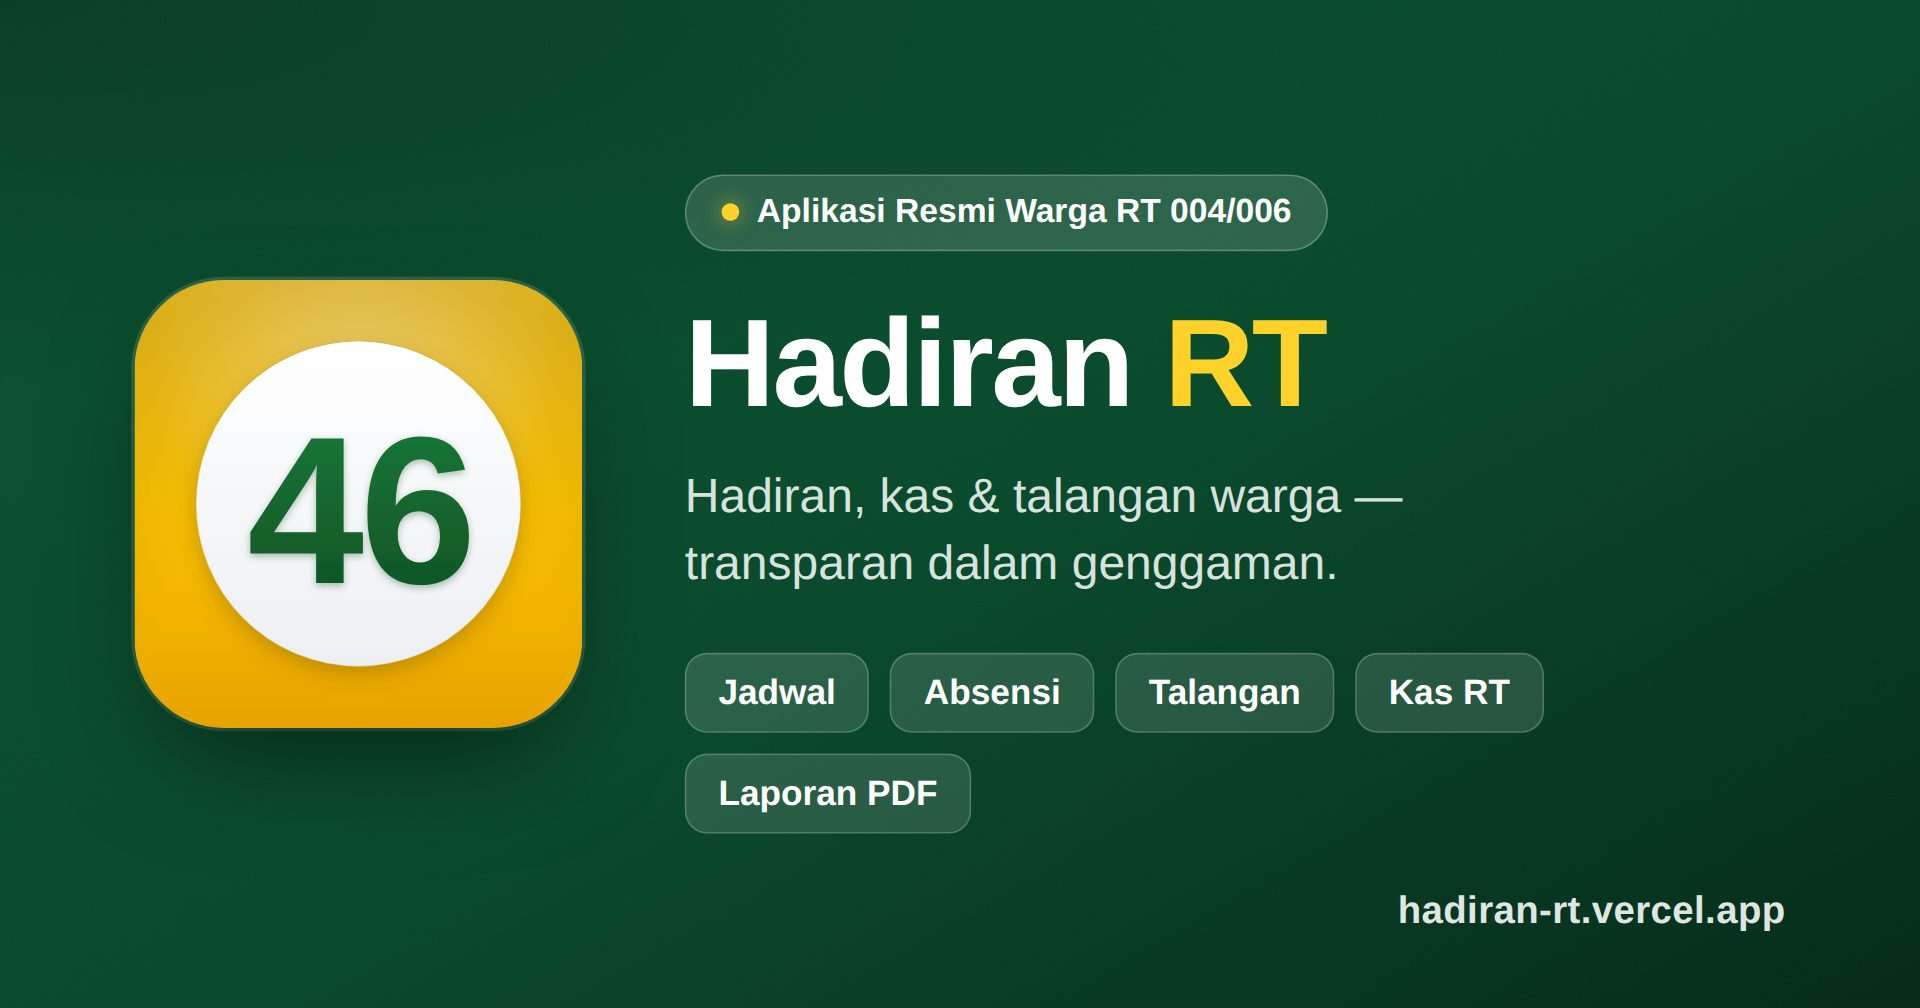
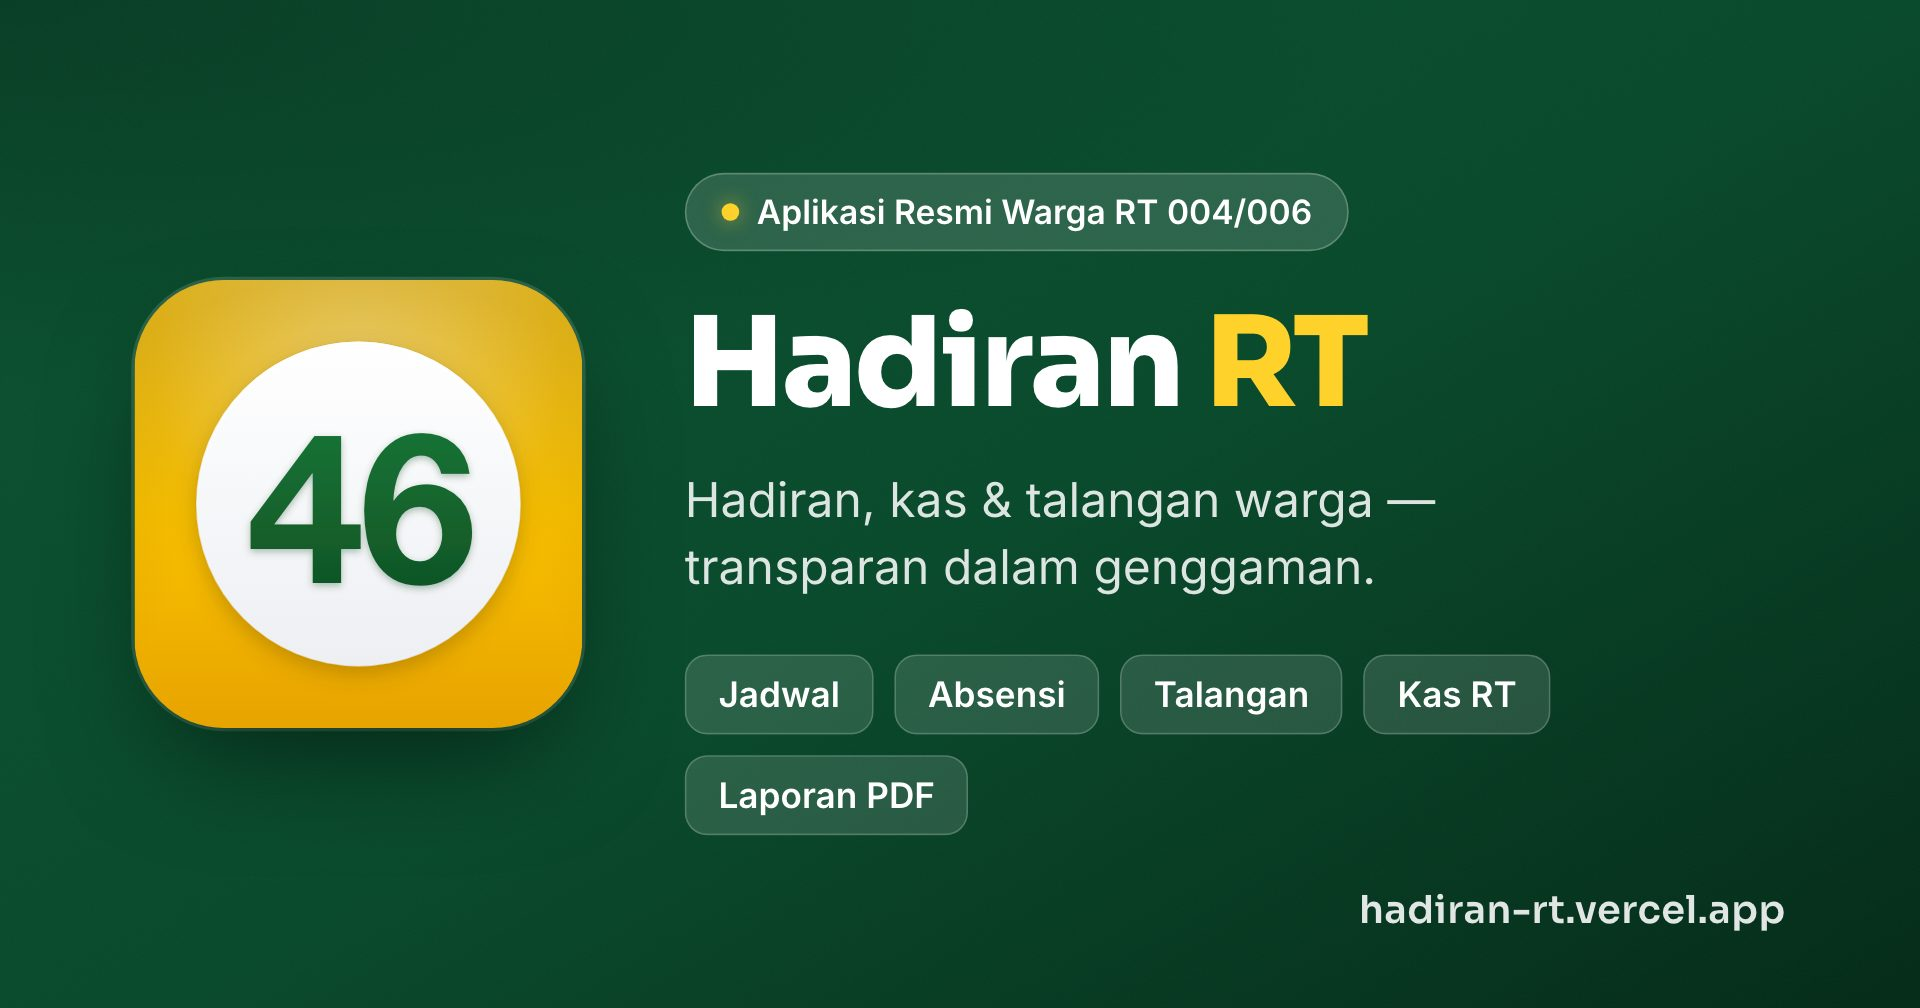
rasa(og): pratinjau tautan WA kini ber-Sora & Inter + penanda versi
og-hadiran.jpg dibuat ulang dgn generator yang sudah membuktikan hurufnya
terpakai: judul & alamat Sora, kalimat & pil Inter (dulu Arial cadangan).
Tata letak, warna & ukuran tetap (1920×1008, 95 kB; audit:aset O 9,37:1).

og:image & twitter:image (index.html & landing.html) diberi ?v=20261024:
WhatsApp menyimpan pratinjau per URL gambar, jadi tanpa penanda tautan yang
pernah dibagikan terus memakai gambar lama. Disetujui user 24 Okt 2026.

diff --git a/index.html b/index.html
@@ -128,7 +128,11 @@
     <meta property="og:locale" content="id_ID" />
     <meta property="og:title" content="Hadiran RT 004/006" />
     <meta property="og:description" content="Jadwal tarikan, absensi, talangan &amp; kas RT yang transparan — langsung dari HP, tanpa install." />
-    <meta property="og:image" content="https://hadiran-rt.vercel.app/og-hadiran.jpg" />
+    <!-- `?v=` = penanda versi gambar (24 Okt 2026). WhatsApp menyimpan pratinjau
+         PER URL gambar; tanpa penanda, tautan yang pernah dibagikan terus memakai
+         gambar lama. Naikkan tanggalnya tiap og-hadiran.jpg dibuat ulang — juga
+         di public/landing.html. -->
+    <meta property="og:image" content="https://hadiran-rt.vercel.app/og-hadiran.jpg?v=20261024" />
     <meta property="og:image:type" content="image/jpeg" />
     <meta property="og:image:width" content="1920" />
     <meta property="og:image:height" content="1008" />
@@ -138,7 +142,7 @@
     <meta name="twitter:card" content="summary_large_image" />
     <meta name="twitter:title" content="Hadiran RT 004/006" />
     <meta name="twitter:description" content="Jadwal tarikan, absensi, talangan &amp; kas RT yang transparan — langsung dari HP, tanpa install." />
-    <meta name="twitter:image" content="https://hadiran-rt.vercel.app/og-hadiran.jpg" />
+    <meta name="twitter:image" content="https://hadiran-rt.vercel.app/og-hadiran.jpg?v=20261024" />
   </head>
   <body>
     <!-- Splash pertama (lihat <style> di head). Logo di-inline → nol request saat

diff --git a/public/landing.html b/public/landing.html
@@ -31,7 +31,7 @@
 <meta property="og:site_name" content="Hadiran RT 004/006" />
 <meta property="og:title" content="Hadiran RT 004/006 · Hadiran &amp; Kas Warga" />
 <meta property="og:description" content="Pantau jadwal tarikan, absensi, talangan &amp; kas RT yang transparan. Langsung dari HP, tanpa install." />
-<meta property="og:image" content="https://hadiran-rt.vercel.app/og-hadiran.jpg" />
+<meta property="og:image" content="https://hadiran-rt.vercel.app/og-hadiran.jpg?v=20261024" />
 <!-- Ukuran ASLI berkas (1920×1008). Sebelumnya tertulis 1200×630; WhatsApp
      memesan kotak gambar dari angka ini, jadi angka palsu = kartu terpotong. -->
 <meta property="og:image:type" content="image/jpeg" />
@@ -42,7 +42,7 @@
 <meta name="twitter:card" content="summary_large_image" />
 <meta name="twitter:title" content="Hadiran RT 004/006 · Hadiran &amp; Kas Warga" />
 <meta name="twitter:description" content="Pantau jadwal tarikan, absensi, talangan &amp; kas RT yang transparan. Langsung dari HP, tanpa install." />
-<meta name="twitter:image" content="https://hadiran-rt.vercel.app/og-hadiran.jpg" />
+<meta name="twitter:image" content="https://hadiran-rt.vercel.app/og-hadiran.jpg?v=20261024" />
 
 <!-- Font self-host — subset latin yang sama dengan app (@fontsource-variable). -->
 <link rel="preload" href="/fonts/sora-latin-wght-normal.woff2" as="font" type="font/woff2" crossorigin />
